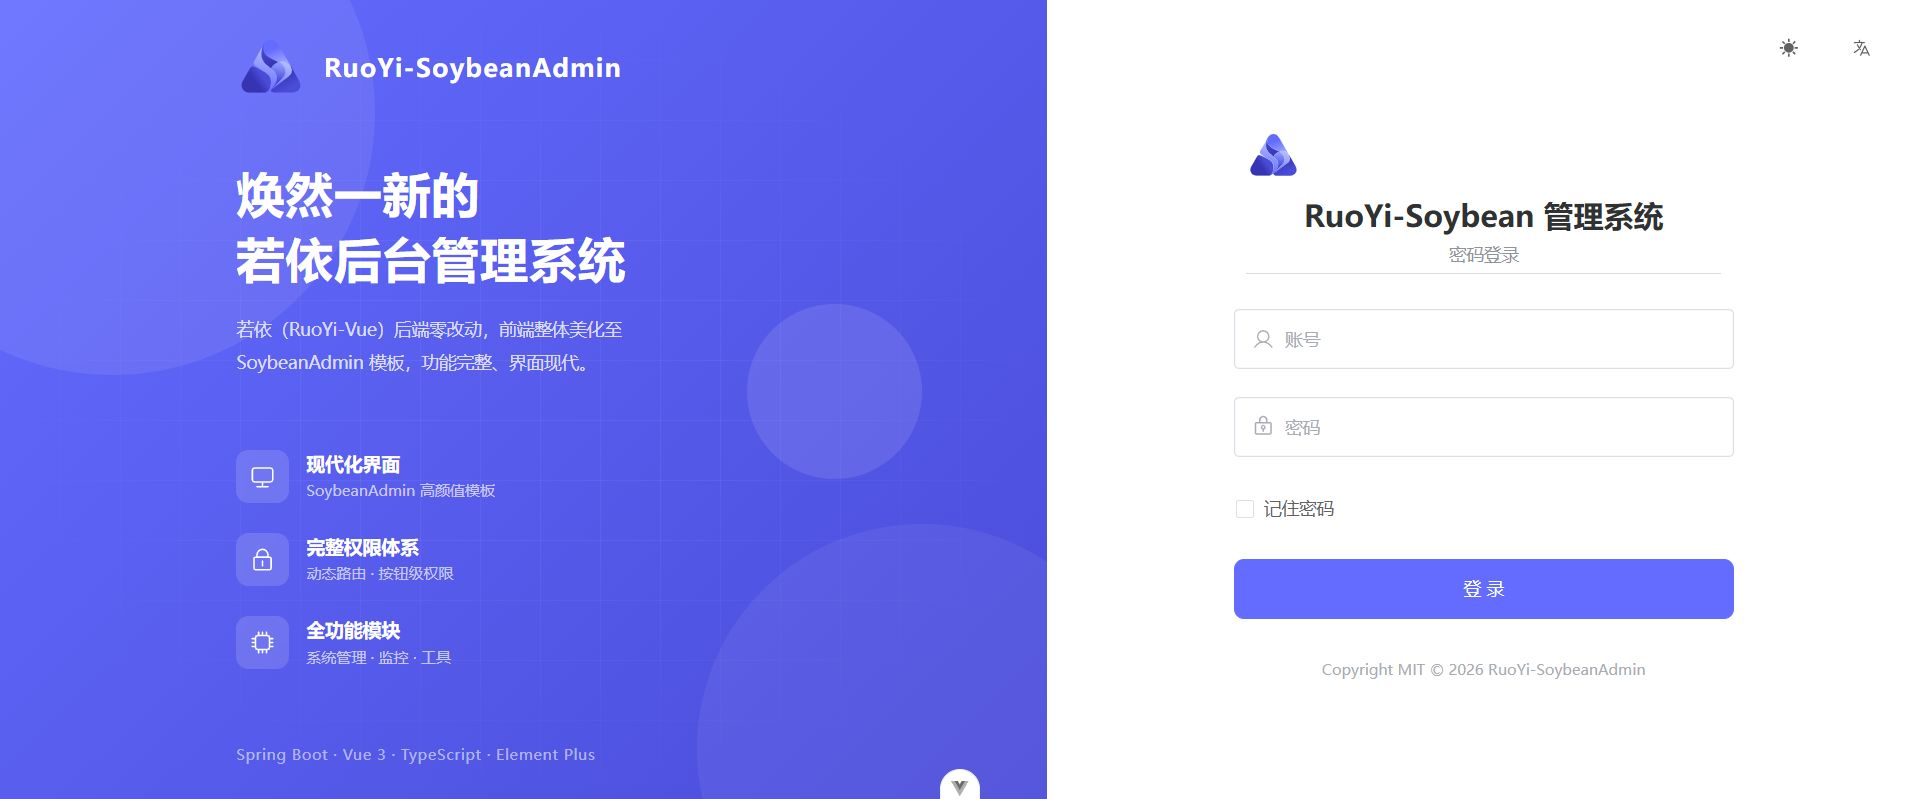
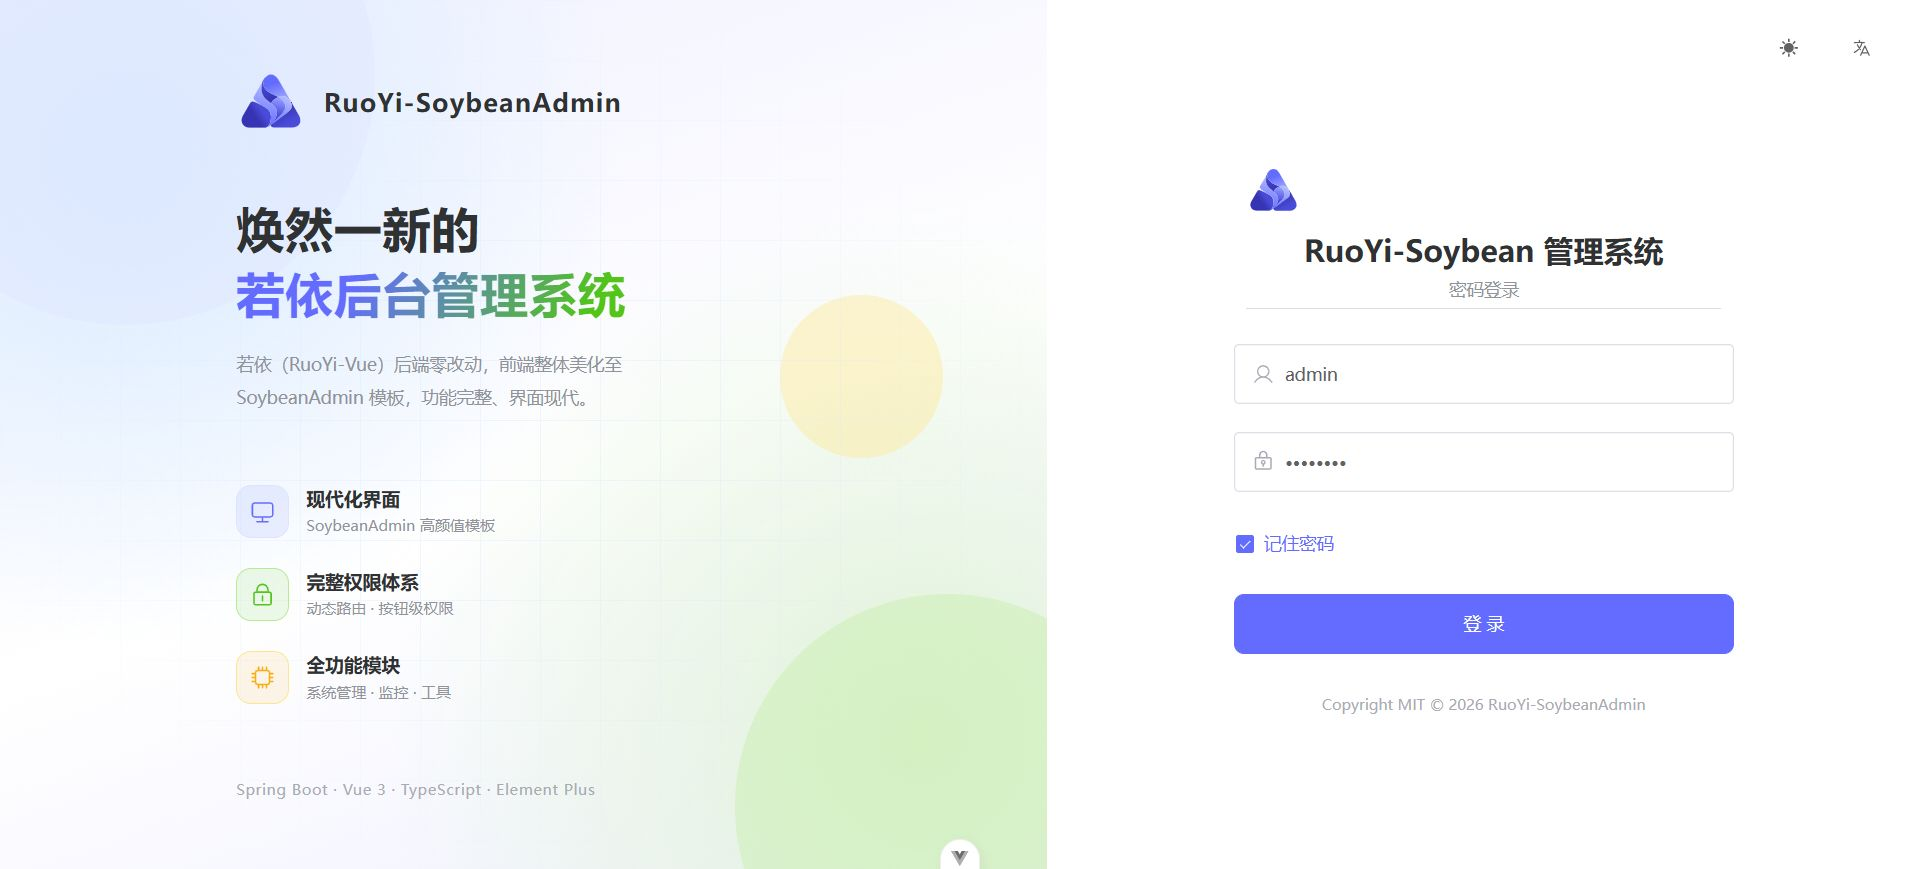
style: 登录页改为清新浅色系
- 品牌区背景改为白底 + 浅蓝/浅绿径向晕染的柔和渐变（替换深紫渐变）
- 装饰圆改用 primary/success/warning 浅色，网格纹理降透明度
- 文字改为深色系，标语关键词应用紫蓝→绿渐变点缀
- 特性图标改为浅蓝/浅绿/浅橙彩色圆角卡片
- 暗黑模式自动跟随 Element Plus 变量；更新 README 截图

diff --git a/frontend/src/views/_builtin/login/index.vue b/frontend/src/views/_builtin/login/index.vue
@@ -57,7 +57,7 @@ const brandFeatures = [
         </div>
 
         <div class="brand-slogan">
-          <h1>焕然一新的<br />若依后台管理系统</h1>
+          <h1>焕然一新的<br /><span class="slogan-accent">若依后台管理系统</span></h1>
           <p>若依（RuoYi-Vue）后端零改动，前端整体美化至 SoybeanAdmin 模板，功能完整、界面现代。</p>
         </div>
 
@@ -126,7 +126,7 @@ const brandFeatures = [
   overflow: hidden;
   background-color: var(--el-bg-color);
 
-  /* ===== 左侧品牌区 ===== */
+  /* ===== 左侧品牌区（清新浅色） ===== */
   .brand-panel {
     position: relative;
     display: flex;
@@ -134,7 +134,10 @@ const brandFeatures = [
     align-items: center;
     justify-content: center;
     overflow: hidden;
-    background: linear-gradient(135deg, var(--el-color-primary) 0%, var(--el-color-primary-dark-2) 100%);
+    background:
+      radial-gradient(circle at 12% 18%, var(--el-color-primary-light-8) 0%, transparent 42%),
+      radial-gradient(circle at 88% 85%, var(--el-color-success-light-8) 0%, transparent 45%),
+      linear-gradient(160deg, var(--el-color-primary-light-9) 0%, var(--el-bg-color) 55%, var(--el-color-primary-light-9) 100%);
 
     /* 小屏隐藏左侧 */
     @media (max-width: 900px) {
@@ -150,29 +153,32 @@ const brandFeatures = [
     .bg-circle {
       position: absolute;
       border-radius: 50%;
-      background: rgba(255, 255, 255, 0.08);
 
       &.bg-circle-1 {
-        top: -120px;
-        left: -120px;
-        width: 420px;
-        height: 420px;
+        top: -140px;
+        left: -100px;
+        width: 400px;
+        height: 400px;
+        background: var(--el-color-primary-light-7);
+        opacity: 0.35;
       }
 
       &.bg-circle-2 {
-        right: -80px;
-        bottom: -140px;
-        width: 360px;
-        height: 360px;
-        background: rgba(255, 255, 255, 0.06);
+        right: -90px;
+        bottom: -120px;
+        width: 340px;
+        height: 340px;
+        background: var(--el-color-success-light-7);
+        opacity: 0.3;
       }
 
       &.bg-circle-3 {
-        top: 38%;
-        right: 12%;
-        width: 140px;
-        height: 140px;
-        background: rgba(255, 255, 255, 0.1);
+        top: 34%;
+        right: 10%;
+        width: 130px;
+        height: 130px;
+        background: var(--el-color-warning-light-7);
+        opacity: 0.4;
       }
     }
 
@@ -180,9 +186,10 @@ const brandFeatures = [
       position: absolute;
       inset: 0;
       background-image:
-        linear-gradient(rgba(255, 255, 255, 0.05) 1px, transparent 1px),
-        linear-gradient(90deg, rgba(255, 255, 255, 0.05) 1px, transparent 1px);
+        linear-gradient(var(--el-color-primary-light-8) 1px, transparent 1px),
+        linear-gradient(90deg, var(--el-color-primary-light-8) 1px, transparent 1px);
       background-size: 48px 48px;
+      opacity: 0.4;
       mask-image: radial-gradient(ellipse at center, #000 30%, transparent 75%);
     }
   }
@@ -191,7 +198,6 @@ const brandFeatures = [
     position: relative;
     z-index: 1;
     width: min(460px, 82%);
-    color: #fff;
 
     .brand-logo {
       display: flex;
@@ -203,6 +209,7 @@ const brandFeatures = [
         font-size: 20px;
         font-weight: 600;
         letter-spacing: 1px;
+        color: var(--el-text-color-primary);
       }
     }
 
@@ -213,6 +220,15 @@ const brandFeatures = [
         font-weight: 700;
         line-height: 1.35;
         letter-spacing: 1px;
+        color: var(--el-text-color-primary);
+
+        /* 关键词点缀主色 */
+        .slogan-accent {
+          background: linear-gradient(120deg, var(--el-color-primary) 30%, var(--el-color-success) 90%);
+          background-clip: text;
+          -webkit-background-clip: text;
+          color: transparent;
+        }
       }
 
       p {
@@ -220,7 +236,7 @@ const brandFeatures = [
         max-width: 400px;
         font-size: 14px;
         line-height: 1.9;
-        color: rgba(255, 255, 255, 0.78);
+        color: var(--el-text-color-secondary);
       }
     }
 
@@ -241,20 +257,34 @@ const brandFeatures = [
           justify-content: center;
           width: 42px;
           height: 42px;
-          border-radius: 10px;
-          background: rgba(255, 255, 255, 0.14);
-          backdrop-filter: blur(4px);
+          border-radius: 12px;
+          background: var(--el-color-primary-light-9);
+          color: var(--el-color-primary);
+          border: 1px solid var(--el-color-primary-light-7);
+        }
+
+        &:nth-child(2) .feat-icon {
+          background: var(--el-color-success-light-9);
+          color: var(--el-color-success);
+          border-color: var(--el-color-success-light-7);
+        }
+
+        &:nth-child(3) .feat-icon {
+          background: var(--el-color-warning-light-9);
+          color: var(--el-color-warning);
+          border-color: var(--el-color-warning-light-7);
         }
 
         .feat-title {
           font-size: 15px;
           font-weight: 600;
+          color: var(--el-text-color-primary);
         }
 
         .feat-desc {
           margin-top: 2px;
           font-size: 12px;
-          color: rgba(255, 255, 255, 0.66);
+          color: var(--el-text-color-secondary);
         }
       }
     }
@@ -263,7 +293,7 @@ const brandFeatures = [
       margin-top: 48px;
       font-size: 12px;
       letter-spacing: 0.5px;
-      color: rgba(255, 255, 255, 0.55);
+      color: var(--el-text-color-placeholder);
     }
   }
 
